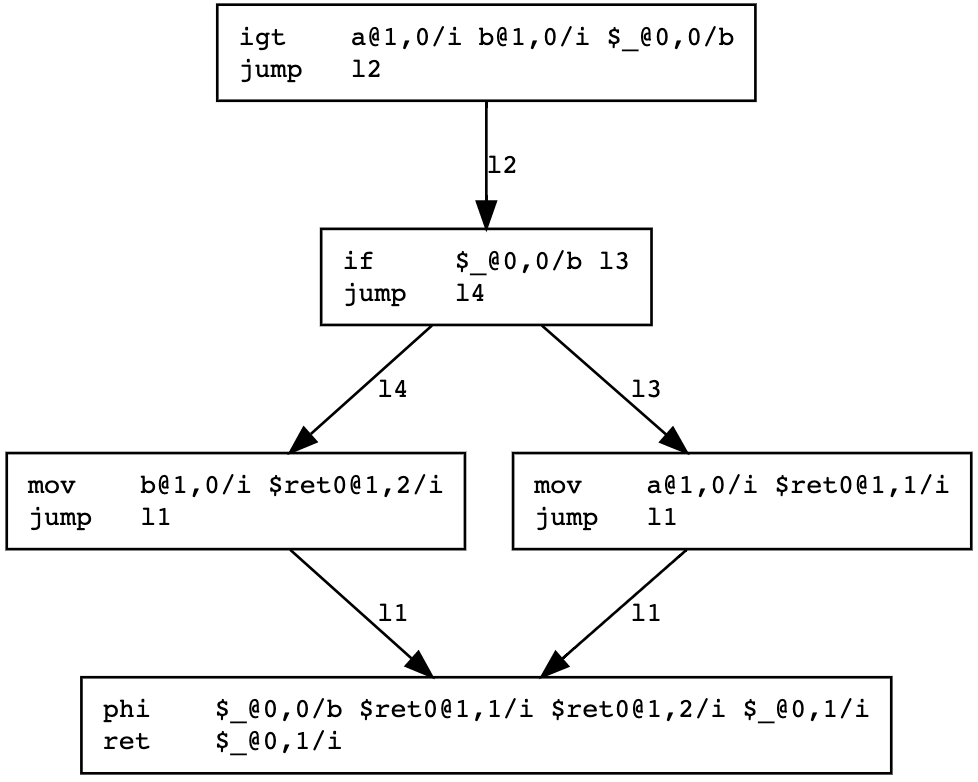
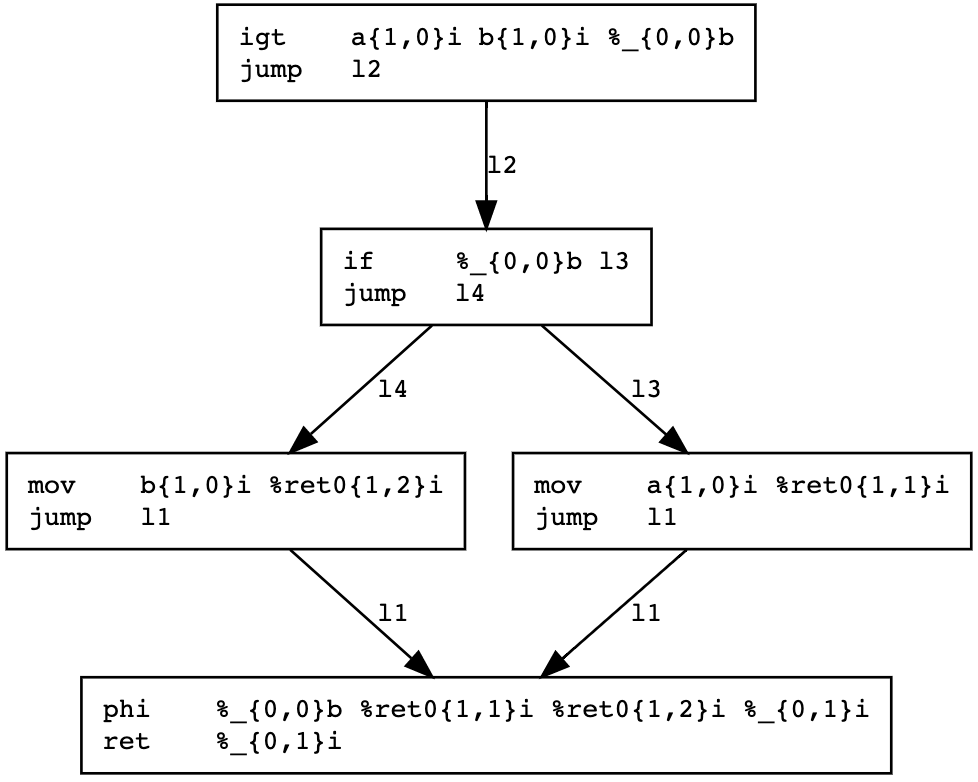
New variable formatting.

diff --git a/compiler/ast/ssagen.go b/compiler/ast/ssagen.go
@@ -56,7 +56,7 @@ func (ast *Func) SSA(block *ssa.Block, ctx *Codegen, gen *ssa.Generator) (
 	// Define return variables.
 	for idx, ret := range ast.Return {
 		if len(ret.Name) == 0 {
-			ret.Name = fmt.Sprintf("$ret%d", idx)
+			ret.Name = fmt.Sprintf("%%ret%d", idx)
 		}
 		r, err := gen.NewVar(ret.Name, ret.Type, ctx.Scope())
 		if err != nil {

diff --git a/compiler/ssa/instructions.go b/compiler/ssa/instructions.go
@@ -256,7 +256,7 @@ func (v Variable) String() string {
 	} else {
 		version = "?"
 	}
-	return fmt.Sprintf("%s@%d,%s/%s",
+	return fmt.Sprintf("%s{%d,%s}%s",
 		v.Name, v.Scope, version, v.Type.ShortString())
 }
 

diff --git a/compiler/ssa/generator.go b/compiler/ssa/generator.go
@@ -13,8 +13,8 @@ import (
 )
 
 const (
-	undef = "$undef"
-	anon  = "$_"
+	undef = "%undef"
+	anon  = "%_"
 )
 
 type Generator struct {

diff --git a/README.md b/README.md
@@ -18,19 +18,19 @@ The compiler creates the following SSA form assembly:
 
 ```
 l0:
-	igt    a@1,0/i b@1,0/i $_@0,0/b
+	igt    a{1,0}i b{1,0}i %_{0,0}b
 	jump   l2
 l2:
-	if     $_@0,0/b l3
+	if     %_{0,0}b l3
 	jump   l4
 l4:
-	mov    b@1,0/i $ret0@1,2/i
+	mov    b{1,0}i %ret0{1,2}i
 	jump   l1
 l1:
-	phi    $_@0,0/b $ret0@1,1/i $ret0@1,2/i $_@0,1/i
-	ret    $_@0,1/i
+	phi    %_{0,0}b %ret0{1,1}i %ret0{1,2}i %_{0,1}i
+	ret    %_{0,1}i
 l3:
-	mov    a@1,0/i $ret0@1,1/i
+	mov    a{1,0}i %ret0{1,1}i
 	jump   l1
 ```
 <img align="center" width="500" height="400" src="ifelse.png">
